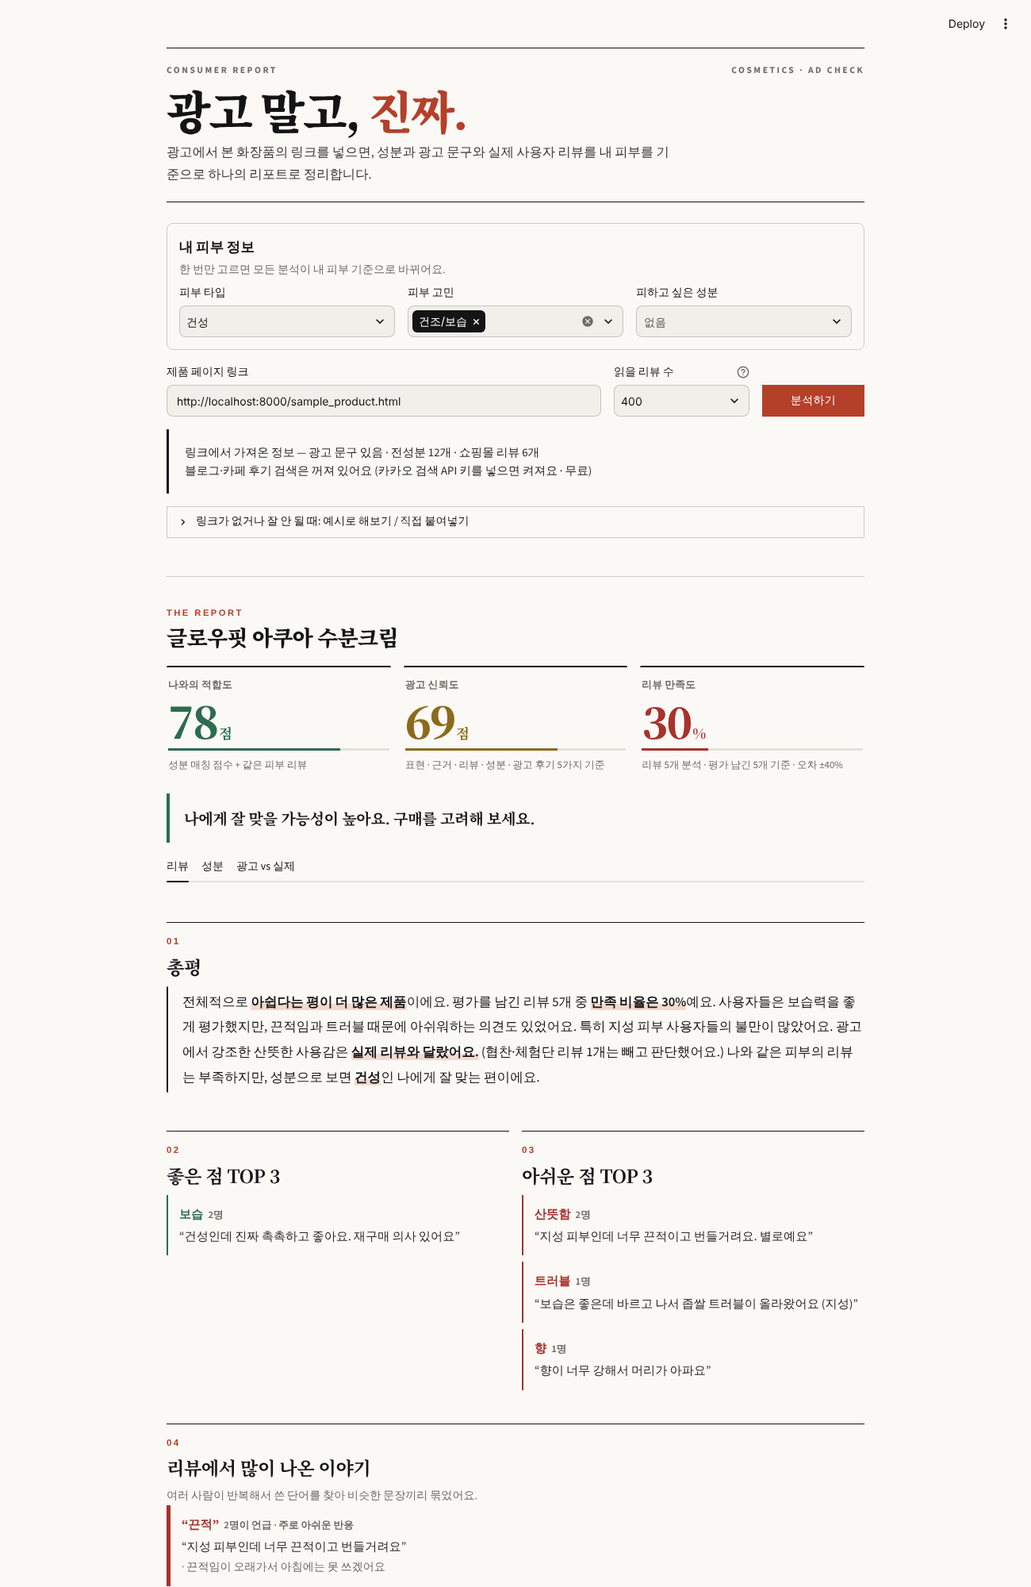
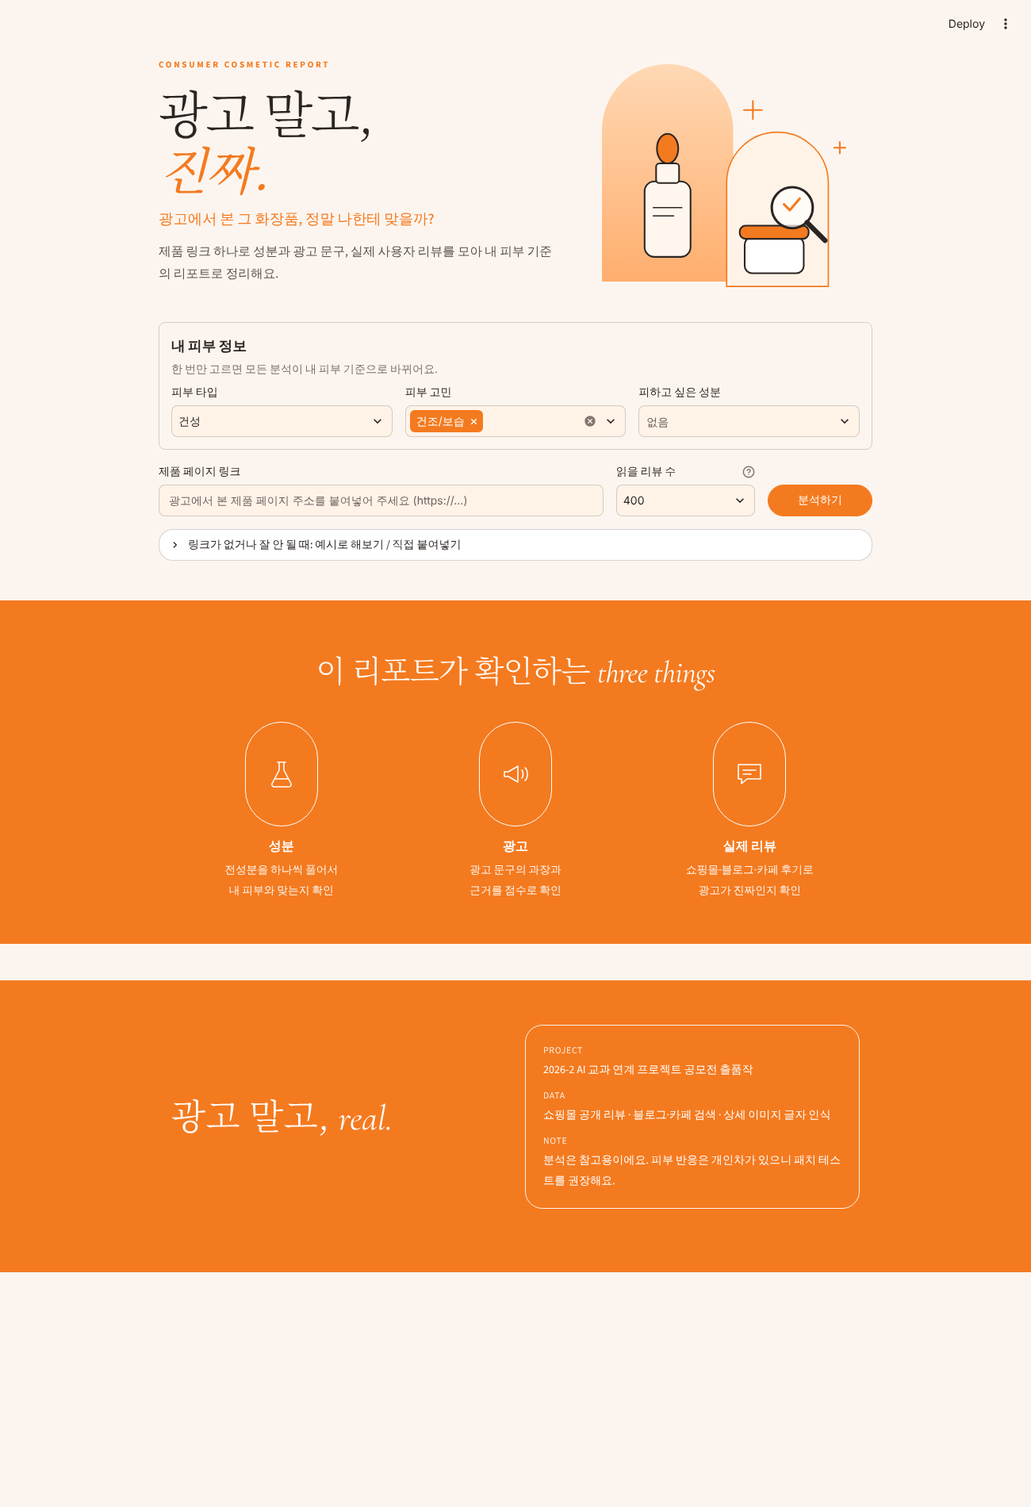
Restyle with a warm cream and orange beauty-brand look
Cream background with a bright orange accent, light Noto Serif KR headings
with orange italic accents, a hero with hand-drawn arch illustrations
(SVG, no stock photos), a full-width orange band explaining the three
checks with arch line icons, testimonial-style review quotes, rounded
cards and pill buttons, a peach verdict box, an orange footer, matching
alert boxes, and the manual-input section collapsed by default.

Claude-Session: https://claude.ai/code/session_01TKkDqmhNakBsfJxoSAEcEg

diff --git a/ui.py b/ui.py
@@ -9,110 +9,131 @@ import re
 import streamlit as st
 
 # 매거진 스타일: 종이색 배경 + 검정 글씨 + 포인트 색 하나(테라코타). 좋음/나쁨/주의는 채도를 낮춘 색
-INK, PAPER, LINE, GRAY = "#141414", "#FAF9F6", "#E3E0D8", "#6E6A63"
+INK, PAPER, LINE, GRAY = "#2B2522", "#FCF5EF", "#EADFD4", "#7A6F66"
 GOOD, GOOD_BG = "#2E6B4F", "#EEF3EE"
 BAD, BAD_BG = "#A8322D", "#F7ECE9"
 WARN, WARN_BG = "#8C6A1C", "#F5F0E2"
-ROSE = "#B4402A"
+ROSE = "#F47A1F"   # 포인트 주황
 
 CSS = """
 <style>
 @import url('https://cdn.jsdelivr.net/gh/orioncactus/pretendard@v1.3.9/dist/web/static/pretendard.min.css');
-@import url('https://fonts.googleapis.com/css2?family=Noto+Serif+KR:wght@500;700;900&display=swap');
+@import url('https://fonts.googleapis.com/css2?family=Noto+Serif+KR:wght@300;400;600&family=Cormorant+Garamond:ital,wght@0,400;0,500;1,400;1,500&display=swap');
 :root, html, body { color-scheme: only light !important; }
 html, body, [class*="css"], .stApp, .stMarkdown, button, input, textarea, select {
   font-family: 'Pretendard', -apple-system, BlinkMacSystemFont, 'Apple SD Gothic Neo', sans-serif !important;
 }
-.stApp { background: #FAF9F6; }
-.block-container { padding-top: 2.6rem; max-width: 1040px; counter-reset: sec; }
-.serif, .masthead h1, .section-title, .product, .big-num, .verdict, .ing-num { font-family: 'Noto Serif KR', serif !important; }
+.stApp { background: #FCF5EF; color: #2B2522; }
+.block-container { padding-top: 2.2rem; max-width: 1060px; counter-reset: sec; }
+.serif, .hero h1, .section-title, .product, .big-num, .ing-num, .band h2, .foot h2 { font-family: 'Noto Serif KR', serif !important; }
+.en { font-family: 'Cormorant Garamond', serif !important; font-style: italic; }
 
-/* 마스트헤드 */
-.masthead { border-top: 3px solid #141414; border-bottom: 1px solid #141414; padding: 18px 0 20px 0; margin-bottom: 26px; }
-.masthead .kicker { font-size: .72rem; letter-spacing: .22em; font-weight: 700; color: #6E6A63; display: flex; justify-content: space-between; }
-.masthead h1 { font-size: clamp(2.2rem, 7vw, 3.6rem); font-weight: 900; letter-spacing: -0.04em; margin: 10px 0 8px 0; padding: 0; color: #141414; line-height: 1.1; }
-.masthead h1 em { font-style: normal; color: #B4402A; }
-.masthead p { font-size: 1.02rem; color: #3A3733; margin: 0; max-width: 640px; line-height: 1.7; }
+/* 첫 화면 */
+.hero { display: grid; grid-template-columns: 1.15fr .85fr; gap: 24px; align-items: center; margin: 4px 0 30px 0; }
+.hero .kicker { font-size: .7rem; letter-spacing: .24em; font-weight: 700; color: #F47A1F; }
+.hero h1 { font-size: clamp(2.4rem, 7vw, 4rem); font-weight: 300; letter-spacing: -0.04em; line-height: 1.12; margin: 14px 0 14px 0; padding: 0; color: #2B2522; }
+.hero h1 em { font-style: italic; color: #F47A1F; font-weight: 400; }
+.hero .lead { color: #F47A1F; font-size: 1.15rem; font-weight: 500; margin: 0 0 12px 0; }
+.hero p { color: #5B524B; font-size: .98rem; line-height: 1.75; margin: 0; max-width: 520px; }
+.hero svg { width: 100%; height: auto; }
+
+/* 주황 띠 (전체 폭) */
+.band, .foot { margin: 34px calc(50% - 50vw); padding: 56px calc(50vw - 50%); background: #F47A1F; color: #fff; }
+.band-in, .foot-in { max-width: 1060px; margin: 0 auto; padding: 0 1rem; }
+.band-title { font-family: 'Noto Serif KR', serif; font-weight: 300; font-size: clamp(1.7rem, 4vw, 2.4rem); text-align: center; margin: 0 0 30px 0; color: #fff; letter-spacing: -0.02em; }
+.band-grid { display: grid; grid-template-columns: repeat(3, 1fr); gap: 18px; text-align: center; }
+.arch-icon { width: 92px; height: 132px; margin: 0 auto 12px auto; border: 1.5px solid #fff; border-radius: 46px 46px 46px 46px;
+  display: flex; align-items: center; justify-content: center; }
+.band-grid b { display: block; font-size: 1rem; margin-bottom: 4px; }
+.band-grid span { font-size: .86rem; opacity: .92; line-height: 1.6; }
+.foot { margin-bottom: -6rem; padding-bottom: 80px; margin-top: 12px; }
+.foot-in { display: grid; grid-template-columns: 1fr 1fr; gap: 24px; align-items: center; }
+.foot-title { font-family: 'Noto Serif KR', serif; font-weight: 300; font-size: clamp(2rem, 5vw, 2.8rem); color: #fff; margin: 0; }
+.foot-card { border: 1.5px solid rgba(255,255,255,.9); border-radius: 22px; padding: 20px 22px; font-size: .88rem; line-height: 1.9; }
+.foot-card small { display: block; opacity: .85; letter-spacing: .06em; }
 
 /* 기본 요소 */
-.card { background: #FFFFFF; border: 1px solid #E3E0D8; border-radius: 2px; padding: 18px 20px; margin-bottom: 14px; }
-.section-title { font-size: 1.45rem; font-weight: 700; margin: 34px 0 6px 0; padding-top: 14px; border-top: 1px solid #141414;
-  letter-spacing: -0.02em; color: #141414; }
-.section-title::before { counter-increment: sec; content: counter(sec, decimal-leading-zero); display: block;
-  font-family: 'Pretendard', sans-serif; font-size: .72rem; letter-spacing: .2em; color: #B4402A; font-weight: 800; margin-bottom: 4px; }
-.muted { color: #6E6A63; font-size: .88rem; line-height: 1.6; }
+.card { background: #FFFFFF; border: 1px solid #EADFD4; border-radius: 22px; padding: 20px 22px; margin-bottom: 14px; }
+.section-title { font-size: 1.85rem; font-weight: 300; margin: 40px 0 6px 0; letter-spacing: -0.03em; color: #2B2522; line-height: 1.3; }
+.section-title::before { counter-increment: sec; content: counter(sec, decimal-leading-zero) " —"; display: block;
+  font-family: 'Pretendard', sans-serif; font-size: .7rem; letter-spacing: .2em; color: #F47A1F; font-weight: 700; margin-bottom: 8px; }
+.muted { color: #7A6F66; font-size: .88rem; line-height: 1.65; }
+.product { font-size: clamp(1.6rem, 4vw, 2.3rem); font-weight: 300; margin: 6px 0 20px 0; line-height: 1.3; letter-spacing: -0.03em; }
+.product small { display: block; font-family: 'Pretendard', sans-serif; font-size: .7rem; font-weight: 700; color: #F47A1F; letter-spacing: .24em; margin-bottom: 8px; }
 
-.product { font-size: 1.7rem; font-weight: 900; margin: 6px 0 18px 0; line-height: 1.3; letter-spacing: -0.03em; }
-.product small { display: block; font-family: 'Pretendard', sans-serif; font-size: .7rem; font-weight: 800; color: #B4402A; letter-spacing: .22em; margin-bottom: 6px; }
+/* 점수 */
+.score { border-radius: 28px 28px 22px 22px; padding: 20px 22px 16px 22px; }
+.score-label { font-size: .78rem; font-weight: 700; color: #7A6F66; }
+.big-num { font-size: 3.4rem; font-weight: 300; line-height: 1; margin: 10px 0 6px 0; letter-spacing: -0.04em; }
+.big-num small { font-size: 1.05rem; font-weight: 400; margin-left: 3px; }
+.thin-bar { height: 4px; background: #F3E7DC; margin: 10px 0 10px 0; border-radius: 99px; overflow: hidden; }
+.thin-bar div { height: 4px; border-radius: 99px; }
+.score-desc { font-size: .8rem; color: #7A6F66; line-height: 1.55; }
 
-/* 점수: 큰 숫자 + 얇은 막대 */
-.score { border: none; border-top: 2px solid #141414; background: transparent; padding: 12px 2px 6px 2px; }
-.score-label { font-size: .8rem; letter-spacing: .02em; font-weight: 800; color: #6E6A63; }
-.big-num { font-size: 3.4rem; font-weight: 900; line-height: 1; margin: 8px 0 4px 0; letter-spacing: -0.04em; }
-.big-num small { font-size: 1.1rem; font-weight: 700; margin-left: 2px; }
-.thin-bar { height: 3px; background: #E3E0D8; margin: 8px 0 8px 0; }
-.thin-bar div { height: 3px; }
-.score-desc { font-size: .8rem; color: #6E6A63; line-height: 1.5; }
+.verdict { padding: 18px 24px; font-size: 1.12rem; font-weight: 500; margin: 6px 0 12px 0; border-radius: 22px;
+  background: #FFEBDA; border: none !important; color: #2B2522 !important; line-height: 1.6; }
+.verdict::before { content: "결론"; display: block; font-size: .7rem; letter-spacing: .2em; font-weight: 700; color: #F47A1F; margin-bottom: 4px; }
+.comment { line-height: 1.95; font-size: 1.03rem; }
+.comment b { color: #2B2522; background: linear-gradient(transparent 60%, #FFD9B8 60%); font-weight: 600; }
 
-.verdict { padding: 16px 0 16px 18px; font-size: 1.2rem; font-weight: 700; margin: 6px 0 10px 0;
-  border-left: 4px solid #141414; background: transparent; letter-spacing: -0.02em; line-height: 1.6; }
-.comment { line-height: 1.9; font-size: 1.04rem; border: none; border-left: 2px solid #141414; padding: 4px 0 4px 18px; background: transparent; }
-.comment b { color: #141414; background: linear-gradient(transparent 62%, #F1D9CF 62%); }
+/* 후기 카드 (사용자 후기 스타일) */
+.quote { padding: 4px 0 14px 0; margin-bottom: 10px; border: none !important; background: transparent !important; }
+.quote .head { font-weight: 700; margin-top: 6px; font-size: .86rem; order: 2; }
+.quote .head span { font-weight: 500; font-size: .78rem; color: #7A6F66; margin-left: 6px; }
+.quote .body { font-size: .95rem; color: #2B2522; line-height: 1.7; }
+.quote { display: flex; flex-direction: column-reverse; }
 
-.quote { padding: 12px 0 12px 14px; margin-bottom: 8px; border-radius: 0; background: transparent !important; }
-.quote .head { font-weight: 800; margin-bottom: 4px; font-size: .95rem; }
-.quote .head span { font-weight: 600; font-size: .8rem; color: #6E6A63; margin-left: 6px; }
-.quote .body { font-size: .95rem; color: #2A2723; line-height: 1.6; }
-
-.chip { display: inline-block; border-radius: 2px; padding: 4px 10px; margin: 0 6px 8px 0; font-size: .84rem; font-weight: 600;
+.chip { display: inline-block; border-radius: 999px; padding: 4px 12px; margin: 0 6px 8px 0; font-size: .84rem; font-weight: 600;
   border: 1px solid currentColor; background: transparent !important; }
 .chip small { font-weight: 500; opacity: .8; margin-left: 4px; }
 
-.bar-row { display: flex; align-items: center; margin: 9px 0; gap: 10px; }
+.bar-row { display: flex; align-items: center; margin: 10px 0; gap: 10px; }
 .bar-label { width: 90px; font-weight: 600; font-size: .88rem; flex-shrink: 0; }
-.bar-track { flex: 1; display: flex; height: 8px; border-radius: 0; overflow: hidden; background: #ECE9E2; }
-.bar-num { width: 70px; text-align: right; font-size: .8rem; color: #6E6A63; flex-shrink: 0; }
+.bar-track { flex: 1; display: flex; height: 8px; border-radius: 99px; overflow: hidden; background: #F3E7DC; }
+.bar-num { width: 70px; text-align: right; font-size: .8rem; color: #7A6F66; flex-shrink: 0; }
 
-.claim { display: flex; justify-content: space-between; align-items: center; gap: 12px; border-bottom: 1px solid #ECE9E2; padding: 11px 0; }
+.claim { display: flex; justify-content: space-between; align-items: center; gap: 12px; border-bottom: 1px solid #F1E6DB; padding: 12px 0; }
 .claim:last-child { border-bottom: none; }
-.badge { border-radius: 2px; padding: 3px 8px; font-size: .76rem; font-weight: 800; white-space: nowrap; letter-spacing: .02em;
-  border: 1px solid currentColor; background: transparent !important; }
+.badge { border-radius: 999px; padding: 3px 10px; font-size: .76rem; font-weight: 700; white-space: nowrap; border: 1px solid currentColor; background: transparent !important; }
 
 /* 탭·버튼·입력 */
-button[data-baseweb="tab"] p { font-size: 1rem !important; font-weight: 700; letter-spacing: -0.01em; }
-button[data-baseweb="tab"] { padding: 10px 16px 10px 0; }
-div[data-baseweb="tab-highlight"] { background-color: #141414 !important; height: 2px !important; }
-.stButton > button { border-radius: 0; font-weight: 700; letter-spacing: .02em; }
-.stButton > button[kind="primary"] { background: #141414; border-color: #141414; color: #fff; }
-.stButton > button[kind="primary"]:hover { background: #B4402A; border-color: #B4402A; }
-.stTextInput input, div[data-baseweb="select"] > div, .stTextArea textarea { border-radius: 0 !important; }
-div[data-testid="stExpander"] details, div[data-testid="stVerticalBlockBorderWrapper"] { border-radius: 0 !important; }
+button[data-baseweb="tab"] p { font-size: 1rem !important; font-weight: 600; }
+button[data-baseweb="tab"] { padding: 10px 18px 10px 0; }
+div[data-baseweb="tab-highlight"] { background-color: #F47A1F !important; height: 2px !important; }
+.stButton > button { border-radius: 999px; font-weight: 600; border: 1px solid #2B2522; background: transparent; color: #2B2522; }
+.stButton > button[kind="primary"] { background: #F47A1F; border-color: #F47A1F; color: #fff; }
+.stButton > button[kind="primary"]:hover { background: #2B2522; border-color: #2B2522; color: #fff; }
+.stTextInput input, .stTextArea textarea { border-radius: 14px !important; }
+div[data-baseweb="select"] > div { border-radius: 14px !important; }
+div[data-testid="stVerticalBlockBorderWrapper"] { border-radius: 24px !important; background: #FFFFFF; }
+div[data-testid="stExpander"] details { border-radius: 18px !important; background: #FFFFFF; }
 footer { visibility: hidden; }
-/* 안내 상자 (st.info / st.warning) */
-div[data-testid="stAlert"] { border-radius: 0 !important; background: transparent !important; border: none !important;
-  border-left: 3px solid #141414 !important; padding: 2px 0 2px 4px !important; }
-div[data-testid="stAlert"] p, div[data-testid="stAlert"] div { color: #2A2723 !important; font-size: .92rem; }
+div[data-testid="stAlert"] { border-radius: 18px !important; background: #FFF6EE !important; border: 1px solid #F6DCC4 !important; }
+div[data-testid="stAlert"] p, div[data-testid="stAlert"] div { color: #3B332D !important; font-size: .92rem; }
 div[data-testid="stAlert"] svg { display: none; }
-div[data-testid="stAlertContainer"] { background: transparent !important; }
-div[data-testid="stNotification"][data-baseweb="notification"] { background: transparent !important; }
+div[data-testid="stAlert"] > div, div[data-testid="stAlert"] [role="alert"], div[data-testid="stAlert"] [data-baseweb="notification"],
+div[data-testid="stAlertContainer"], div[data-testid^="stAlertContent"] { background: #FFF6EE !important; border-radius: 18px !important; }
 
 /* 성분 */
-.ing-grid { display: grid; grid-template-columns: repeat(auto-fit, minmax(230px, 1fr)); gap: 0; border-top: 1px solid #E3E0D8; border-left: 1px solid #E3E0D8; }
-.ing-box { background: transparent; border-right: 1px solid #E3E0D8; border-bottom: 1px solid #E3E0D8; padding: 14px 14px; }
-.ing-box-title { font-weight: 800; font-size: .8rem; letter-spacing: .02em; color: #6E6A63; margin-bottom: 10px; }
-.ing-row { display: flex; align-items: center; gap: 14px; padding: 13px 0; border-bottom: 1px solid #ECE9E2; }
+.ing-grid { display: grid; grid-template-columns: repeat(auto-fit, minmax(230px, 1fr)); gap: 12px; }
+.ing-box { background: #FCF5EF; border-radius: 18px; padding: 14px 16px; }
+.ing-box-title { font-weight: 700; font-size: .8rem; color: #7A6F66; margin-bottom: 10px; }
+.ing-row { display: flex; align-items: center; gap: 14px; padding: 13px 0; border-bottom: 1px solid #F1E6DB; }
 .ing-row:last-child { border-bottom: none; }
-.ing-num { width: 30px; font-size: 1.15rem; font-weight: 900; color: #B4402A; flex-shrink: 0; text-align: right; }
+.ing-num { width: 30px; font-size: 1.2rem; font-weight: 300; color: #F47A1F; flex-shrink: 0; text-align: right; }
 .ing-main { flex: 1; min-width: 0; }
-.ing-desc { font-size: .86rem; color: #5A5650; margin-top: 3px; line-height: 1.55; }
-.ad-quote { border-left: 2px solid #B4402A; padding: 6px 0 6px 12px; margin: 10px 0; font-weight: 600; font-family: 'Noto Serif KR', serif; }
-.mini-quote { border-left: 2px solid; padding: 6px 0 6px 12px; margin-top: 8px; font-size: .9rem; color: #2A2723; line-height: 1.6; }
-.one-pct { text-align: center; color: #8C6A1C; border-top: 1px dashed #8C6A1C; border-bottom: 1px dashed #8C6A1C; padding: 6px; margin: 10px 0; font-size: .82rem; }
-.mini { display: inline-block; border-radius: 0; padding: 0 6px; font-size: .7rem; font-weight: 800; margin-left: 4px; letter-spacing: .02em; }
-a { color: #B4402A !important; }
+.ing-desc { font-size: .86rem; color: #5B524B; margin-top: 3px; line-height: 1.55; }
+.ad-quote { background: #FFF3E8; border-radius: 16px; padding: 10px 14px; margin: 10px 0; font-weight: 500; }
+.mini-quote { border-left: 2px solid; padding: 6px 0 6px 12px; margin-top: 8px; font-size: .9rem; color: #2B2522; line-height: 1.65; }
+.one-pct { text-align: center; color: #B4621A; background: #FFF3E8; border-radius: 99px; padding: 6px; margin: 10px 0; font-size: .82rem; }
+.mini { display: inline-block; border-radius: 99px; padding: 0 8px; font-size: .7rem; font-weight: 700; margin-left: 4px; }
+a { color: #F47A1F !important; }
 
-@media (max-width: 640px) {
-  .block-container { padding-top: 2rem; }
+@media (max-width: 720px) {
+  .hero { grid-template-columns: 1fr; }
+  .hero svg { max-width: 320px; margin: 0 auto; display: block; }
+  .band-grid { grid-template-columns: 1fr; gap: 26px; }
+  .foot-in { grid-template-columns: 1fr; }
   .big-num { font-size: 2.8rem; }
   .bar-label { width: 72px; }
   .ing-row { flex-wrap: wrap; }
@@ -147,11 +168,62 @@ def inject_css():
     show(CSS)
 
 
+HERO_ART = """
+<svg viewBox="0 0 360 310" xmlns="http://www.w3.org/2000/svg" role="img" aria-label="화장품 병과 돋보기 그림">
+  <defs>
+    <linearGradient id="peach" x1="0" y1="0" x2="0" y2="1"><stop offset="0" stop-color="#FFD8B4"/><stop offset="1" stop-color="#FFAE6E"/></linearGradient>
+  </defs>
+  <path d="M30,105 A80,80 0 0 1 190,105 V290 H30 Z" fill="url(#peach)"/>
+  <rect x="82" y="168" width="56" height="92" rx="12" fill="#FFF6EE" stroke="#2B2522" stroke-width="2"/>
+  <rect x="96" y="146" width="28" height="24" rx="4" fill="#FFF6EE" stroke="#2B2522" stroke-width="2"/>
+  <ellipse cx="110" cy="128" rx="13" ry="18" fill="#F47A1F" stroke="#2B2522" stroke-width="2"/>
+  <line x1="92" y1="200" x2="128" y2="200" stroke="#2B2522" stroke-width="1.5"/>
+  <line x1="92" y1="210" x2="118" y2="210" stroke="#2B2522" stroke-width="1.5"/>
+  <path d="M182,170 A62,62 0 0 1 306,170 V296 H182 Z" fill="#FFF3E8" stroke="#F47A1F" stroke-width="1.6"/>
+  <rect x="204" y="236" width="72" height="44" rx="9" fill="#FFFFFF" stroke="#2B2522" stroke-width="2"/>
+  <rect x="198" y="222" width="84" height="16" rx="7" fill="#F47A1F" stroke="#2B2522" stroke-width="2"/>
+  <circle cx="262" cy="200" r="25" fill="#FFFFFF" fill-opacity=".7" stroke="#2B2522" stroke-width="3"/>
+  <line x1="280" y1="218" x2="302" y2="240" stroke="#2B2522" stroke-width="6" stroke-linecap="round"/>
+  <path d="M252,196 l7,7 l12,-14" fill="none" stroke="#F47A1F" stroke-width="3" stroke-linecap="round" stroke-linejoin="round"/>
+  <g stroke="#F47A1F" stroke-width="2" stroke-linecap="round">
+    <line x1="214" y1="70" x2="214" y2="92"/><line x1="203" y1="81" x2="225" y2="81"/>
+    <line x1="320" y1="120" x2="320" y2="134"/><line x1="313" y1="127" x2="327" y2="127"/>
+  </g>
+</svg>
+"""
+
+ICONS = {
+    "성분": '<svg width="40" height="40" viewBox="0 0 40 40" fill="none" stroke="#fff" stroke-width="1.6" stroke-linecap="round" stroke-linejoin="round">'
+            '<path d="M15 5h10M17 5v10L8 32a3 3 0 0 0 3 4h18a3 3 0 0 0 3-4L23 15V5"/><path d="M12 26h16"/></svg>',
+    "광고": '<svg width="40" height="40" viewBox="0 0 40 40" fill="none" stroke="#fff" stroke-width="1.6" stroke-linecap="round" stroke-linejoin="round">'
+            '<path d="M6 17v6h5l12 7V10l-12 7H6z"/><path d="M28 15c2 1.5 2 8.5 0 10M32 12c4 3 4 13 0 16"/></svg>',
+    "리뷰": '<svg width="40" height="40" viewBox="0 0 40 40" fill="none" stroke="#fff" stroke-width="1.6" stroke-linecap="round" stroke-linejoin="round">'
+            '<path d="M6 8h28v18H17l-7 6v-6H6z"/><path d="M12 15h16M12 20h10"/></svg>',
+}
+
+
 def hero():
-    show('<div class="masthead"><div class="kicker"><span>CONSUMER REPORT</span><span>COSMETICS · AD CHECK</span></div>'
-         '<h1>광고 말고, <em>진짜.</em></h1>'
-         '<p>광고에서 본 화장품의 링크를 넣으면, 성분과 광고 문구와 실제 사용자 리뷰를 '
-         '내 피부를 기준으로 하나의 리포트로 정리합니다.</p></div>')
+    show('<div class="hero"><div><div class="kicker">CONSUMER COSMETIC REPORT</div>'
+         '<h1>광고 말고,<br><em>진짜.</em></h1>'
+         '<div class="lead">광고에서 본 그 화장품, 정말 나한테 맞을까?</div>'
+         '<p>제품 링크 하나로 성분과 광고 문구, 실제 사용자 리뷰를 모아 내 피부 기준의 리포트로 정리해요.</p></div>'
+         f'<div>{HERO_ART}</div></div>')
+
+
+def intro_band():
+    items = [("성분", "성분", "전성분을 하나씩 풀어서<br>내 피부와 맞는지 확인"),
+             ("광고", "광고", "광고 문구의 과장과<br>근거를 점수로 확인"),
+             ("리뷰", "실제 리뷰", "쇼핑몰·블로그·카페 후기로<br>광고가 진짜인지 확인")]
+    cells = "".join(f'<div><div class="arch-icon">{ICONS[k]}</div><b>{t}</b><span>{d}</span></div>' for k, t, d in items)
+    show(f'<div class="band"><div class="band-in"><div class="band-title">이 리포트가 확인하는 <span class="en">three things</span></div>'
+         f'<div class="band-grid">{cells}</div></div></div>')
+
+
+def footer():
+    show('<div class="foot"><div class="foot-in"><div class="foot-title">광고 말고, <span class="en">real.</span></div>'
+         '<div class="foot-card"><small>PROJECT</small>2026-2 AI 교과 연계 프로젝트 공모전 출품작<br>'
+         '<small style="margin-top:8px">DATA</small>쇼핑몰 공개 리뷰 · 블로그·카페 검색 · 상세 이미지 글자 인식<br>'
+         '<small style="margin-top:8px">NOTE</small>분석은 참고용이에요. 피부 반응은 개인차가 있으니 패치 테스트를 권장해요.</div></div></div>')
 
 
 def section(title, desc=""):
@@ -187,7 +259,7 @@ def verdict(text, fit, trust):
         color, bg = WARN, WARN_BG
     else:
         color, bg = BAD, BAD_BG
-    show(f'<div class="verdict" style="border-left-color:{color}; color:{INK};">{esc(text)}</div>')
+    show(f'<div class="verdict">{esc(text)}</div>')
 
 
 def comment_card(text):
@@ -200,7 +272,7 @@ def quote_cards(items, good=True):
         show(f'<div class="muted">{"눈에 띄는 칭찬 항목이 없어요." if good else "눈에 띄는 불만 항목이 없어요."}</div>')
         return
     for aspect, cnt, quote in items:
-        show(f'<div class="quote" style="border-left: 2px solid {color};">'
+        show(f'<div class="quote card">'
              f'<div class="head" style="color:{color}">{icon} {esc(aspect)}<span>{cnt}명</span></div>'
              f'<div class="body">“{esc(quote)}”</div></div>')
 

diff --git a/app.py b/app.py
@@ -150,7 +150,7 @@ if st.session_state["found"]:
 for note in st.session_state["notes"]:
     st.warning(note)
 
-with st.expander("링크가 없거나 잘 안 될 때: 예시로 해보기 / 직접 붙여넣기", expanded=not st.session_state["auto_run"]):
+with st.expander("링크가 없거나 잘 안 될 때: 예시로 해보기 / 직접 붙여넣기", expanded=False):
     cols = st.columns(len(SAMPLES))
     for col, name in zip(cols, SAMPLES):
         col.button(name, on_click=load_sample, args=(name,), width="stretch")
@@ -164,6 +164,8 @@ with st.expander("링크가 없거나 잘 안 될 때: 예시로 해보기 / 직
     clicked = st.button("분석하기", width="stretch")
 
 if not (clicked or st.session_state["auto_run"]):
+    ui.intro_band()
+    ui.footer()
     st.stop()
 
 ad_text, ing_text, rev_text = st.session_state["ad"], st.session_state["ingredients"], st.session_state["reviews"]
@@ -334,4 +336,4 @@ with tab_ad:
     ui.section("광고를 언급한 실제 리뷰", "‘광고’, ‘인스타’, ‘상세페이지’ 등을 언급한 리뷰예요.")
     ui.ad_mentions(rep["ad_mentions"])
 
-st.caption("※ 이 분석은 참고용이에요. 피부 반응은 개인차가 있으니 패치 테스트를 권장해요.")
+ui.footer()
